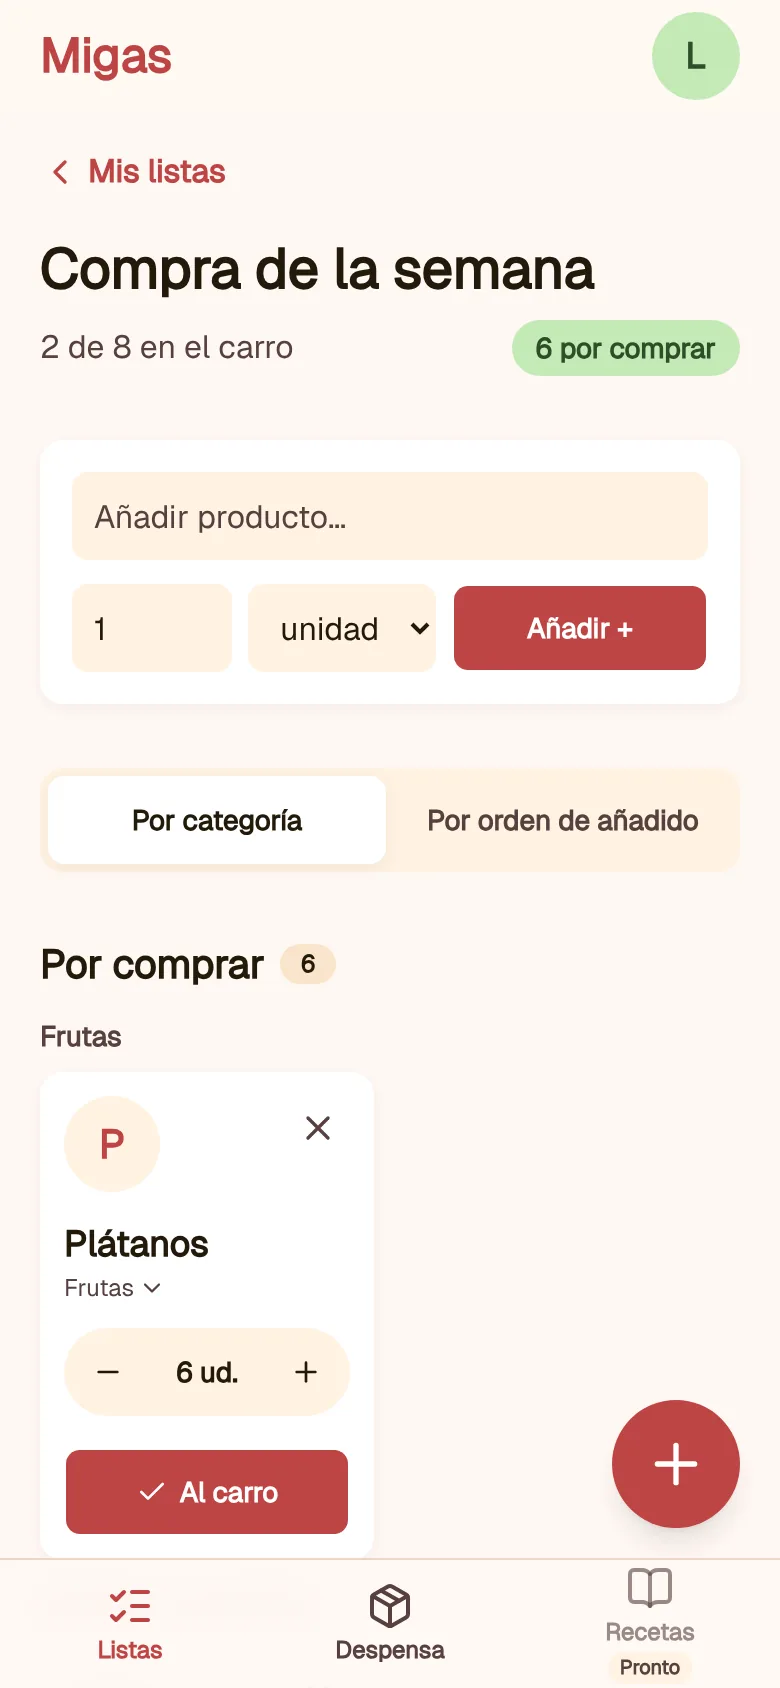
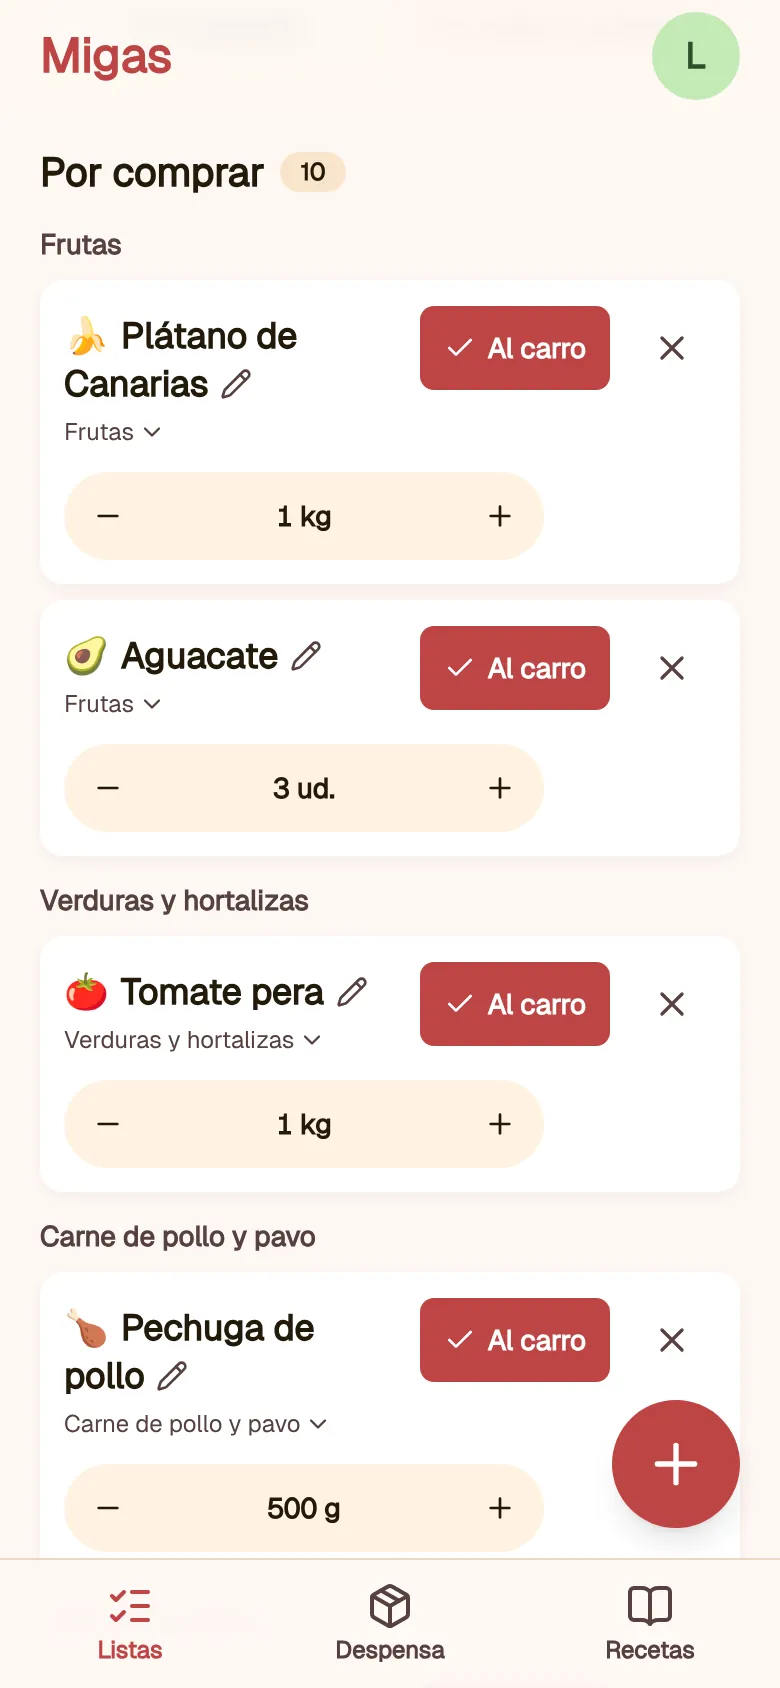
feat(web): home con las pantallas nuevas
- Capturas rehechas: lista con emojis, vista rápida en cuadrícula, guardar
  en la despensa, despensa con abiertos y «−1» con su aviso, y Mis listas
  con la lista general.
- «Cómo funciona» pasa a 5 pasos (añade «En el súper, un toque»); el hero
  enseña la cuadrícula; las ventajas y el plan gratuito cuentan la lista
  general, la vista rápida, packs, emojis, abiertos, deshacer y Mis
  productos.
- emojiPorDefecto: «Tomate pera» es 🍅, no 🍐.

diff --git a/src/app/(marketing)/_components/secciones.tsx b/src/app/(marketing)/_components/secciones.tsx
@@ -1,19 +1,21 @@
 import {
-  CalendarDays,
   Check,
-  ListChecks,
-  ListPlus,
+  Hourglass,
+  Layers,
+  LayoutGrid,
   Package,
+  PackageOpen,
   Plus,
-  SlidersHorizontal,
+  Tags,
+  Undo2,
   Users,
 } from "lucide-react";
 import Image from "next/image";
 import Link from "next/link";
 import { LoginForm } from "@/app/(auth)/_components/login-form";
 import despensa from "../_img/despensa.webp";
-import lista from "../_img/lista.webp";
 import misListas from "../_img/mis-listas.webp";
+import rapida from "../_img/rapida.webp";
 import { CarruselFuncionamiento } from "./carrusel-funcionamiento";
 import { Captura } from "./marco-movil";
 
@@ -132,8 +134,8 @@ export function Hero() {
           className="absolute top-10 left-1/2 aspect-square w-[min(440px,90%)] -translate-x-1/2 rounded-full bg-accent"
         />
         <Captura
-          src={lista}
-          alt="Lista de la compra compartida, por categorías"
+          src={rapida}
+          alt="Vista rápida de la lista: un toque y al carro"
           className="relative mt-14 -mr-12 w-[min(240px,42vw)] -rotate-4"
         />
         <Captura
@@ -209,33 +211,46 @@ const VENTAJAS = [
   {
     icono: Users,
     titulo: "Un hogar, todos dentro",
-    texto: "Sin límite de miembros. Lo que uno apunta, lo ven los demás.",
+    texto: "Sin límite de miembros. Lo que uno apunta, lo ven los demás al momento.",
   },
   {
-    icono: ListChecks,
-    titulo: "Una lista para cada ocasión",
+    icono: Layers,
+    titulo: "Una lista general que lo reúne todo",
     texto:
-      "La de la semana, la barbacoa, el cumple. Las que archivas se borran solas a los 15 días.",
+      "Mercadona, la barbacoa, el cumple… y una general con todo. Lo que tachas en una, se tacha en la otra.",
+  },
+  {
+    icono: LayoutGrid,
+    titulo: "Comprar a toques",
+    texto: "Vista rápida en cuadrícula, con el emoji de cada producto. Un toque y al carro.",
   },
   {
     icono: Package,
-    titulo: "Tu despensa, a tu manera",
-    texto: "Nevera, Congelador y Armario de serie. Añade las ubicaciones que tengas en casa.",
+    titulo: "Migas se acuerda",
+    texto:
+      "De que los yogures van de 4 en 4 y de dónde guardas cada cosa. Te lo propone la próxima vez.",
   },
   {
-    icono: SlidersHorizontal,
-    titulo: "Por ubicación o por categoría",
-    texto: "Ordena la despensa como la miras: por dónde está o por lo que es.",
+    icono: Undo2,
+    titulo: "Gastar sin pensar",
+    texto: "«−1» con un toque y «Deshacer» si te equivocas. Si se acaba, vuelve a la lista.",
   },
   {
-    icono: CalendarDays,
+    icono: PackageOpen,
+    titulo: "Abierto, ¿sigue bueno?",
+    texto:
+      "El jamón abierto pasa de verde a amarillo y a rojo: avisa a los pocos días, la pasta a las semanas.",
+  },
+  {
+    icono: Hourglass,
     titulo: "Caducidad, solo si importa",
-    texto: "Pon fecha a la pechuga y olvídate del arroz. Nada de apuntarlas una a una.",
+    texto: "Pon fecha a la pechuga y olvídate del arroz. Te avisa de lo que caduca esta semana.",
   },
   {
-    icono: ListPlus,
-    titulo: "Queda poco, a la lista",
-    texto: "Cuando algo se acaba, Migas te ofrece añadirlo a la compra.",
+    icono: Tags,
+    titulo: "Nombres en orden",
+    texto:
+      "«Yogures proteina» y «Yogur proteína» son lo mismo: Mis productos los une con un toque.",
   },
 ];
 
@@ -269,7 +284,7 @@ export function Hogar() {
         </div>
         <Captura
           src={misListas}
-          alt="Mis listas: Compra de la semana, Cumple de Martina y Barbacoa del sábado"
+          alt="Mis listas: la lista general, Barbacoa del sábado, Mercadona y Cumple de Martina"
           className="mx-auto w-[min(270px,72vw)] rotate-3"
         />
       </div>
@@ -298,8 +313,9 @@ export function Precios() {
           <ul className="flex flex-col gap-2.5">
             {[
               "1 hogar con miembros ilimitados",
-              "Listas compartidas",
-              "Despensa con ubicaciones y caducidades",
+              "Listas compartidas y una lista general",
+              "Vista rápida, packs y emojis",
+              "Despensa con ubicaciones, caducidades y paquetes abiertos",
               "Recetas con lo que tienes en casa",
             ].map((texto) => (
               <li key={texto} className="flex gap-2.5">

diff --git a/src/app/(marketing)/_components/carrusel-funcionamiento.tsx b/src/app/(marketing)/_components/carrusel-funcionamiento.tsx
@@ -5,6 +5,7 @@ import { cn } from "@/shared/lib/utils";
 import gastar from "../_img/gastar.webp";
 import guardar from "../_img/guardar.webp";
 import lista from "../_img/lista.webp";
+import rapida from "../_img/rapida.webp";
 import recetas from "../_img/recetas.webp";
 import { pasoVecino, pasoVisible } from "./carrusel";
 import { Captura } from "./marco-movil";
@@ -13,13 +14,24 @@ const PASOS = [
   {
     titulo: "Apuntad entre todos",
     texto:
-      "Escribe «pech» y Migas te sugiere Pechuga de pollo. Cada producto cae en su categoría, en el orden en que recorres el súper, y todo el hogar ve la misma lista.",
-    pantalla: <Captura src={lista} alt="Lista de la compra agrupada por categorías" />,
+      "Escribe «pech» y Migas te sugiere Pechuga de pollo, con su emoji y su categoría, en el orden en que recorres el súper. Una lista por tienda y una general que las reúne todas; los yogures, por packs.",
+    pantalla: <Captura src={lista} alt="Lista de la compra por categorías, con emojis" />,
   },
   {
-    titulo: "Comprad y guardad",
+    titulo: "En el súper, un toque",
     texto:
-      "Al terminar la compra, Migas pregunta si lo guardas en la despensa y ya propone Nevera, Congelador o Armario. La caducidad, solo si quieres.",
+      "Cambia a la vista rápida: cada producto es una casilla y un toque lo pasa al carro. La cantidad va en la esquina y, si mantienes pulsado, la cambias.",
+    pantalla: (
+      <Captura
+        src={rapida}
+        alt="Vista rápida: cuadrícula de productos con su emoji y su cantidad"
+      />
+    ),
+  },
+  {
+    titulo: "Guardad sin teclear",
+    texto:
+      "Al terminar la compra, todo pasa a la despensa con un toque, y cada producto va donde lo guardasteis la última vez: nevera, congelador o armario. La caducidad, solo si quieres.",
     pantalla: (
       <Captura
         src={guardar}
@@ -30,8 +42,8 @@ const PASOS = [
   {
     titulo: "Gastad antes de que caduque",
     texto:
-      "La despensa avisa de lo que caduca en los próximos 7 días y de lo que queda poco. Al gastar algo, dices cuánto, y si se acaba lo pasas a la lista.",
-    pantalla: <Captura src={gastar} alt="Gastar un producto: cuánto has usado o tirado" />,
+      "«−1» y listo, con «Deshacer» por si acaso. La despensa avisa de lo que caduca esta semana y de lo abierto que conviene revisar; si algo se acaba, a la lista con un toque.",
+    pantalla: <Captura src={gastar} alt="Despensa: gastado 1 yogur, con Deshacer y A la lista" />,
   },
   {
     titulo: "Cocinad con lo que hay",

diff --git a/src/shared/kernel/emoji.ts b/src/shared/kernel/emoji.ts
@@ -33,6 +33,8 @@ const POR_NOMBRE: readonly (readonly [clave: string, emoji: string])[] = [
   ["pechuga de pavo", "🦃"],
   ["judias verdes", "🫛"],
   ["bebida de", "🥛"],
+  // «Tomate pera» es tomate, no pera.
+  ["tomate", "🍅"],
   // Fruta
   ["platano", "🍌"],
   ["banana", "🍌"],
@@ -61,7 +63,6 @@ const POR_NOMBRE: readonly (readonly [clave: string, emoji: string])[] = [
   ["coco", "🥥"],
   ["aguacate", "🥑"],
   // Verdura
-  ["tomate", "🍅"],
   ["lechuga", "🥬"],
   ["cogollo", "🥬"],
   ["espinaca", "🥬"],

diff --git a/src/shared/kernel/emoji.test.ts b/src/shared/kernel/emoji.test.ts
@@ -17,6 +17,7 @@ describe("emojiPorDefecto", () => {
     ["Manzana Granny Smith", "🍏"],
     ["Tomate frito", "🥫"],
     ["Tomates cherry", "🍅"],
+    ["Tomate pera", "🍅"],
     ["Atún en lata", "🥫"],
     ["Yogures proteína", null],
     ["Patatas fritas congeladas", "🍟"],

diff --git a/CLAUDE.md b/CLAUDE.md
@@ -515,7 +515,8 @@ del seed>
 - Home pública (`/`, `(marketing)`): hecha. Textos del «Plan de marketing —
   Migas»; capturas reales en `(marketing)/_img` (rehacerlas si cambian las
   pantallas). «Cómo funciona» es un carrusel con scroll-snap (móvil y
-  ordenador); el paso 4 enseña la pantalla de Recetas. Premium sale como
+  ordenador) de 5 pasos: lista, vista rápida, guardar, gastar y recetas. Las
+  capturas se rehicieron el 23/10/2026 con emojis, cuadrícula y «−1». Premium sale como
   «Próximamente» con el precio de hipótesis del plan.
 
 Plan completo y orden en la guía de vistas (`docs/shoplab-guia-vista.pdf`).
